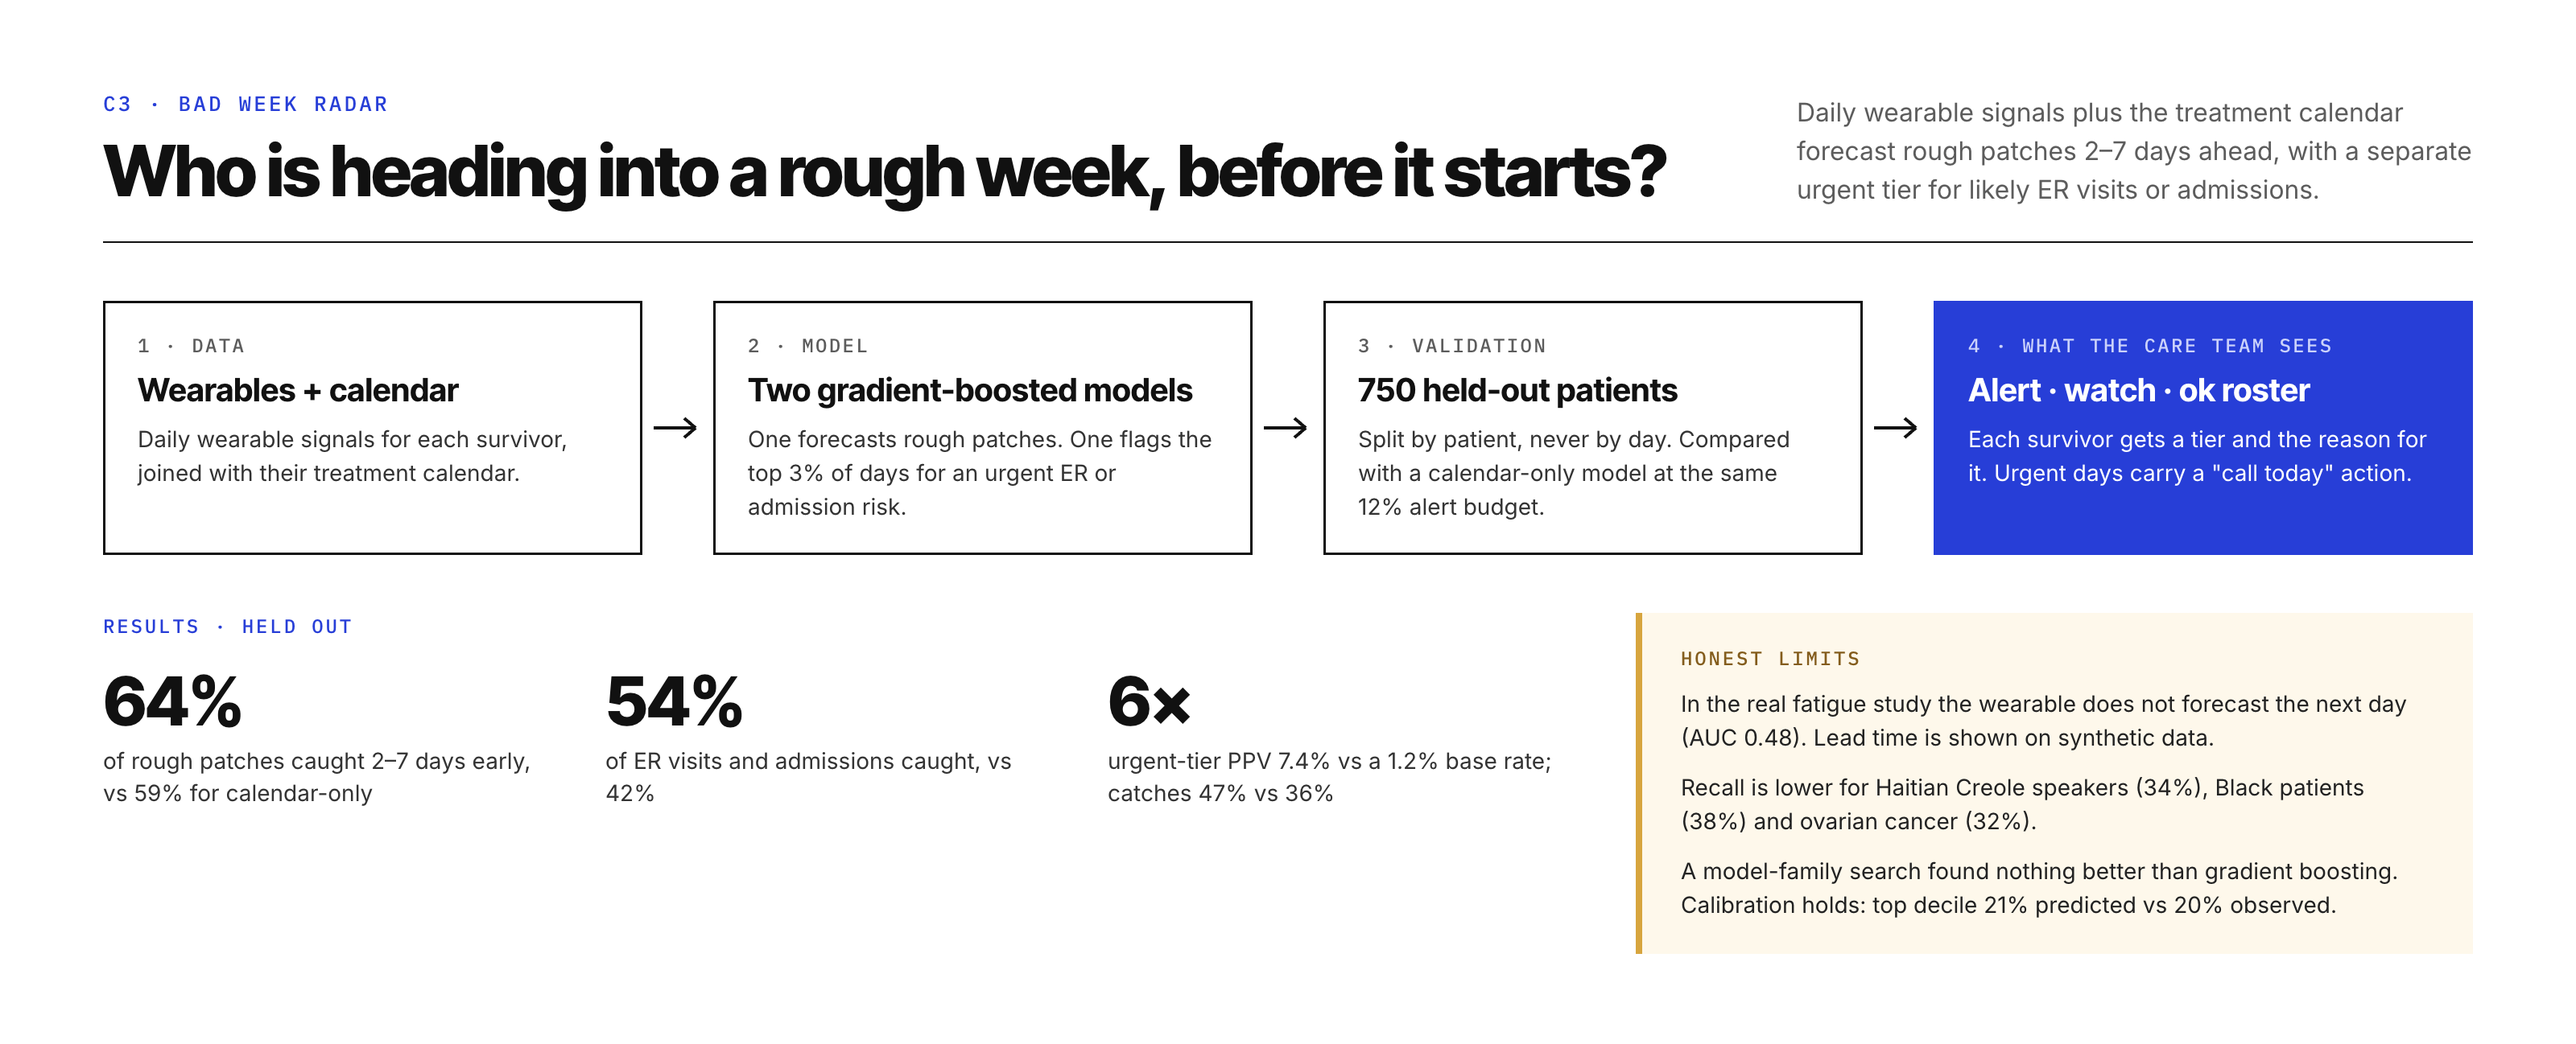
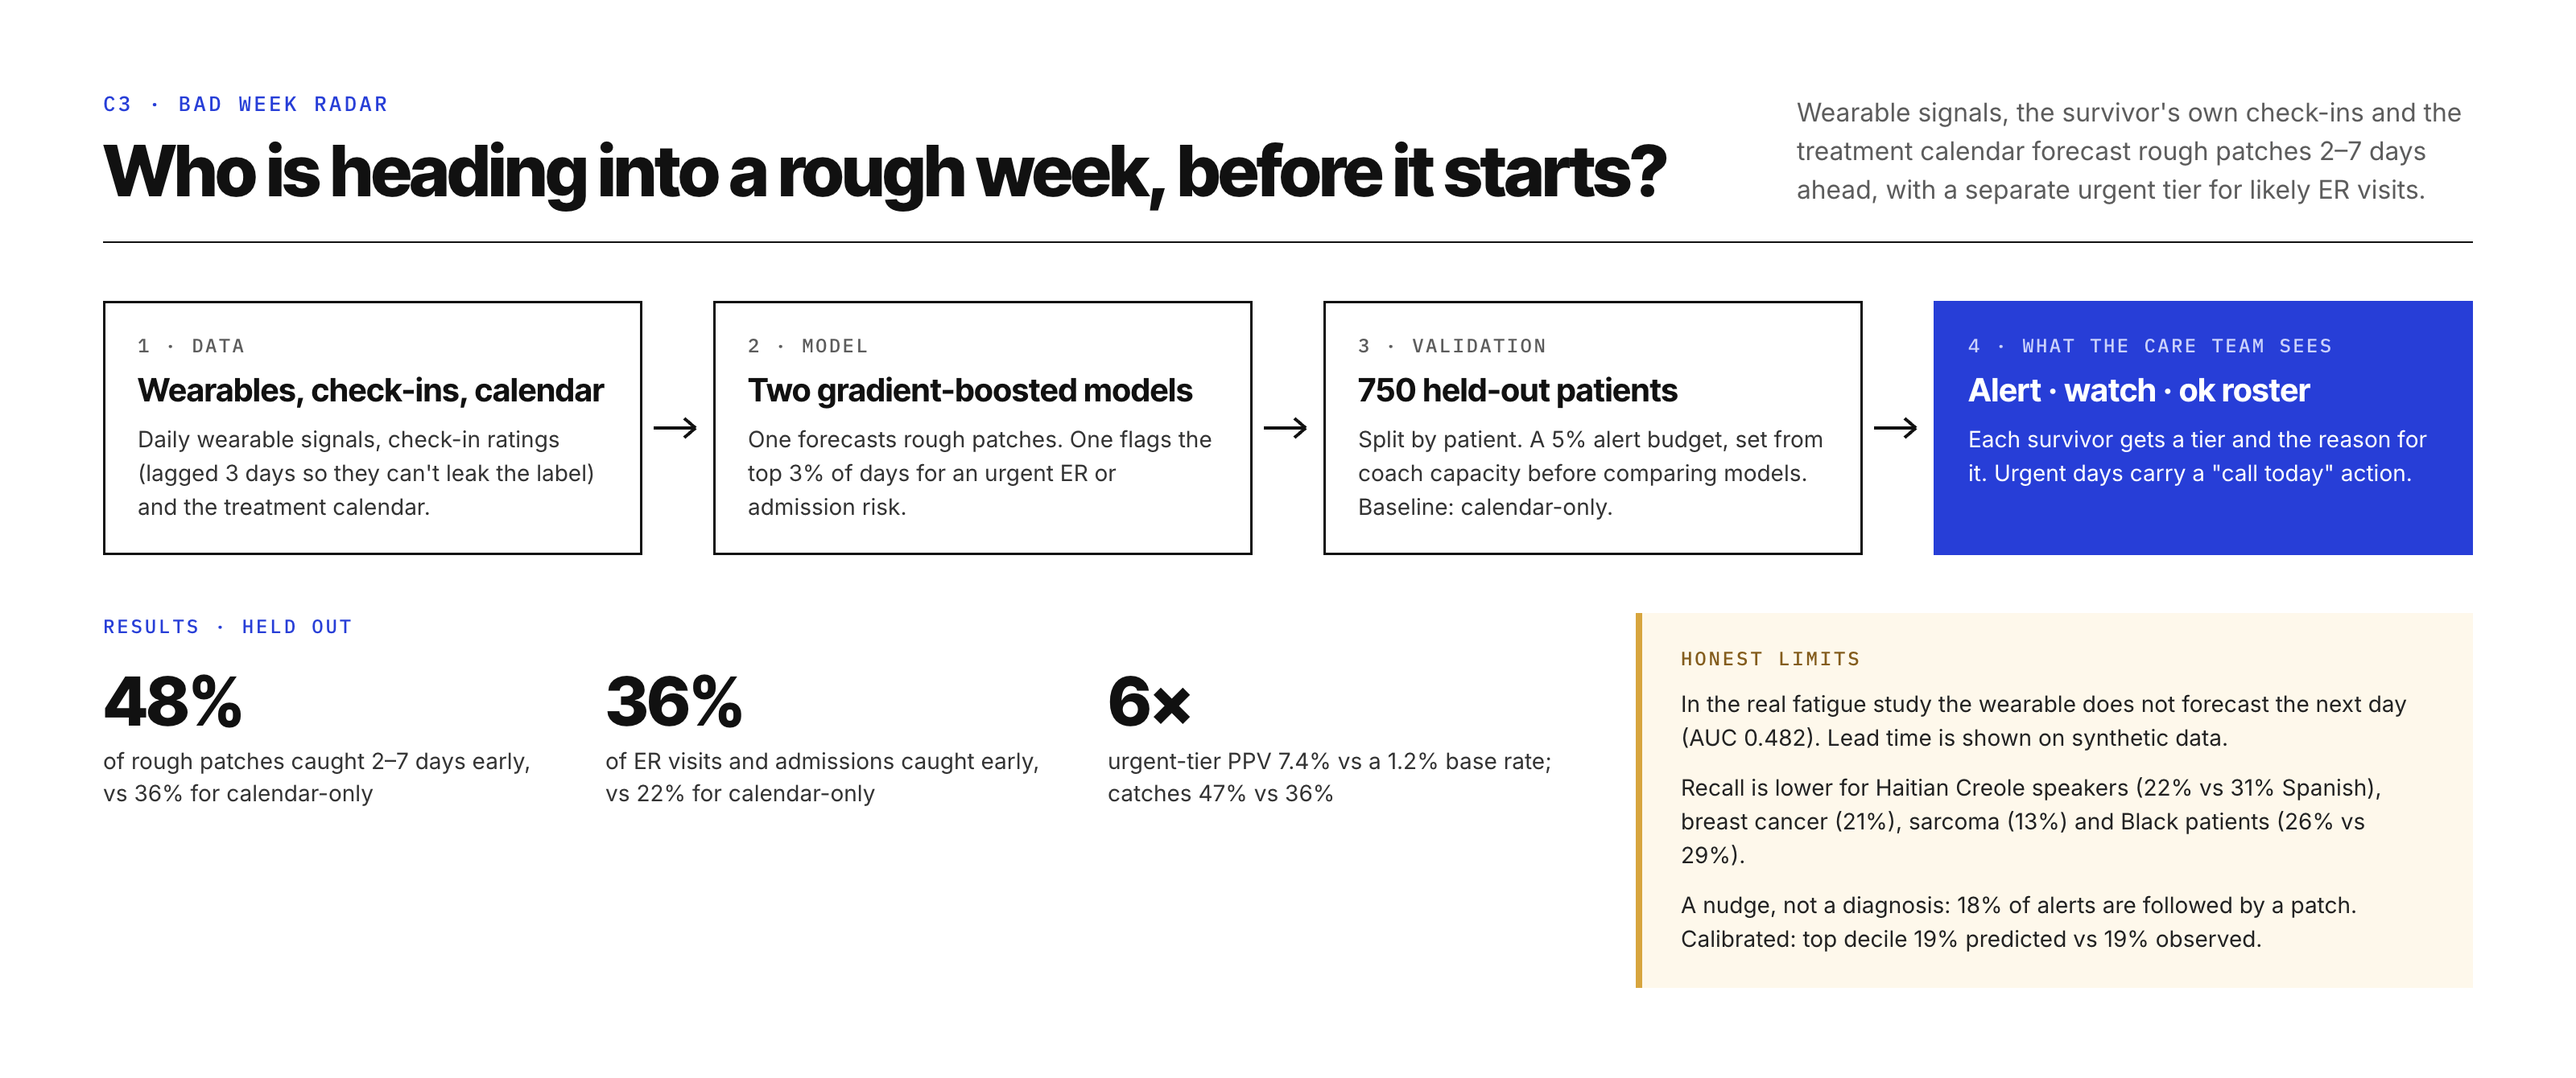
docs: README and diagrams match current modules; add drift check
C1 random forest, C3 check-in model at a 5% budget, C4 double ML.
Bump submodule pins. scripts/check-drift.sh + docs/claims.tsv flag
any future mismatch.

diff --git a/README.md b/README.md
@@ -9,7 +9,7 @@ eMerge Hackathon · Sylvester Comprehensive Cancer Center healthcare track · bu
 - **What to change in daily life.** Personal, evidence-graded advice on meals, timing and movement against blood sugar.
 - **How the coaching is going.** Every line of a coaching call is scored live for motivational-interviewing fidelity, with banners for anything a person must act on.
 
-Every number in the product traces to held-out validation. Each module states where it is weak (fairness gaps, real-data checks that do not confirm the synthetic effect) in the UI, not only in the README.
+Every number in the product traces to a validation run in its module's repo: held-out patients, out-of-fold cross-validation, or falsification checks. Each module states where it is weak (fairness gaps, real-data checks that do not confirm the synthetic effect) in the UI, not only in the README.
 
 ## Try it
 
@@ -21,19 +21,21 @@ Every number in the product traces to held-out validation. Each module states wh
 | C4 Glucose Guide | https://c4-glucose-guide.zay-259.workers.dev |
 | C5 Coach's Co-pilot | https://coach.raava.dev |
 | MCP server (ChatGPT / Claude) | `https://emerge-mcp.raava.dev/mcp` |
-| iOS patient app | TestFlight (in progress) |
+| iOS patient app | not yet on TestFlight (waiting on the App Store Connect app record) |
 
 ## Modules
 
-| Module | Challenge | What it does | Headline result (held out) | Repo |
+| Module | Challenge | What it does | Headline result | Repo |
 |---|---|---|---|---|
-| Patient 360 | all | Clinician console: Today list, patients, per-patient 360 view, live coaching calls with recap, Ellie chat assistant | E2E 77/77 against the deployed site | [`coach-console`](modules/coach-console) |
-| C1 Care-team risk | C1 acute-care risk | Calibrated logistic model on MEPS survivors; risk tiers, factors, fairness by group | AUROC 0.666 (tie with baseline); calibration slope 1.09 vs 0.45 | [`c1-acute-risk`](modules/c1-acute-risk) |
-| C3 Bad Week Radar | C3 wearables | Forecasts rough patches 2–7 days early from the survivor's own check-ins (relative to their usual), skipped check-ins, wearable and treatment calendar; urgent ER/admission tier with a "call today" action | At ~1 new alert per coach per day: 48% of patches caught early vs 36% calendar-only (CI +8 to +15 pts); ER/admissions 36% vs 22%; alert precision 18% vs 11% | [`c3-rough-patch`](modules/c3-rough-patch) |
-| C4 Glucose Guide | C4 dose & timing | Within-person effects of evening walks, late dinners and overnight fasting on blood sugar; personal advice only when the person's own data supports it | Evening walk −18.7 mg/dL after dinner (CI 17.2–20.4); each claim tagged with a real-data check | [`c4-glucose-guide`](modules/c4-glucose-guide) |
-| C5 Coach's Co-pilot | C5 coaching conversations | Tags every call line with an MI code in ~0.4 s (Cloudflare Clef), live fidelity score, safety banners, GLM coaching cues | 93.1% coach moves, 90.9% participant talk on 1,085 calls; 13/13 urgent lines caught | [`coach-copilot`](modules/coach-copilot) |
+| Patient 360 | all | Clinician console: Today list, patients, per-patient 360 view, live coaching calls with recap, Ellie chat assistant. Owns the whole application layer. | Latest E2E against the deployed site: 81/83 (fails: a Workers AI rate limit in Ellie, one 502) | [`coach-console`](modules/coach-console) |
+| C1 Care-team risk | C1 acute-care risk | Calibrated random forest on MEPS survivors, picked from 48 candidates; risk tiers, per-survivor drivers, fairness flags | Out-of-fold: log loss 0.539 vs 0.606 baseline (significant); calibration slope 1.10 vs 0.45; AUROC 0.711 vs 0.672 (not significant) | [`c1-acute-risk`](modules/c1-acute-risk) |
+| C3 Bad Week Radar | C3 wearables | Forecasts rough patches 2–7 days early from wearables, lagged check-ins and the treatment calendar; urgent ER/admission tier with a "call today" action | Held out, 5% alert budget: 48% of patches caught early vs 36% calendar-only; ER/admissions 36% vs 22% | [`c3-rough-patch`](modules/c3-rough-patch) |
+| C4 Glucose Guide | C4 dose & timing | Double ML, within person: evening walks, late dinners and overnight fasting vs blood sugar; personal advice only when the person's own data supports it | Evening walk −18.3 mg/dL after dinner (CI 16.6–20.1); each claim tagged with a real-data check | [`c4-glucose-guide`](modules/c4-glucose-guide) |
+| C5 Coach's Co-pilot | C5 coaching conversations | Tags every call line with an MI code in ~0.4 s (Cloudflare Clef), live fidelity score, safety banners, GLM coaching cues | Held out: 93.1% coach moves, 90.9% participant talk on 1,085 calls; 13/13 urgent lines caught | [`coach-copilot`](modules/coach-copilot) |
 | Challenge MCP | all | 13 read-only tools over every module for ChatGPT and Claude, incl. "score this conversation" | E2E 67/67 with the official MCP client | [`challenge-mcp`](modules/challenge-mcp) |
-| Patient app | all | iOS, the survivor's own view across modules, 5 synthetic personas | in progress | added when its first build lands |
+| Patient app | all | iOS, the survivor's own view across modules, 5 synthetic personas | Simulator build and E2E run locally; TestFlight waits on the App Store Connect app record | not on GitHub yet |
+
+Who owns what: the challenge modules are engines and APIs only (model, data pipeline, validation, `CONTRACT.md`). Patient 360 owns everything users see.
 
 ## Architecture
 
@@ -66,10 +68,19 @@ Diagrams are made in Paper; the PNGs in `docs/` are exports.
 ## Honest limits
 
 - The module cohorts are separate synthetic datasets supplied by the sponsors; they share no patient ids. Cross-module views use composite synthetic personas, labelled as such.
-- C1 ranks no better than its baseline; its gain is calibration. It ranks NH Black survivors poorly (n = 47) and under-predicts at 75+; the UI warns for both.
-- C3's lead time is shown on synthetic data; in the real fatigue study the wearable does not forecast the next day. Alerts are a nudge: about 1 in 5.5 is followed by a rough patch within a week, and at that budget about half of patches are caught.
-- C4's real-data checks point the same way as the synthetic effects but do not prove them.
+- C1 ranks better than its baseline, but not significantly (AUROC 0.711 vs 0.672); the proven gain is in its probabilities. It ranks NH Black survivors poorly (AUROC 0.48, n = 47), and the panel warns.
+- C3's lead time is shown on synthetic data; in the real fatigue study the wearable does not forecast the next day (AUC 0.482). Recall is lower for Haitian Creole speakers (22% vs 31% Spanish), breast cancer (21%), sarcoma (13%) and Black patients (26% vs 29%).
+- C4's real-data checks point the same way as the synthetic effects but do not prove them; the real walk effect is much smaller (−3.2 mg/dL, CI −6.9 to 0.5).
 - C5 agrees with AnnoMI experts 75.0% of the time vs 83.9% expert-to-expert agreement (91–93% where all experts agree).
+
+## Keeping this README true
+
+`scripts/check-drift.sh` fails when this README no longer matches reality:
+- a submodule pin is behind its repo's `main`, or a local module has unpushed commits;
+- a live URL is down, or the MCP server's tool count changed;
+- a headline number in `docs/claims.tsv` no longer appears in the module's own docs.
+
+The coordinator runs it on a schedule and fixes the README, the diagrams and the pins when it fails.
 
 ## Repo layout
 
